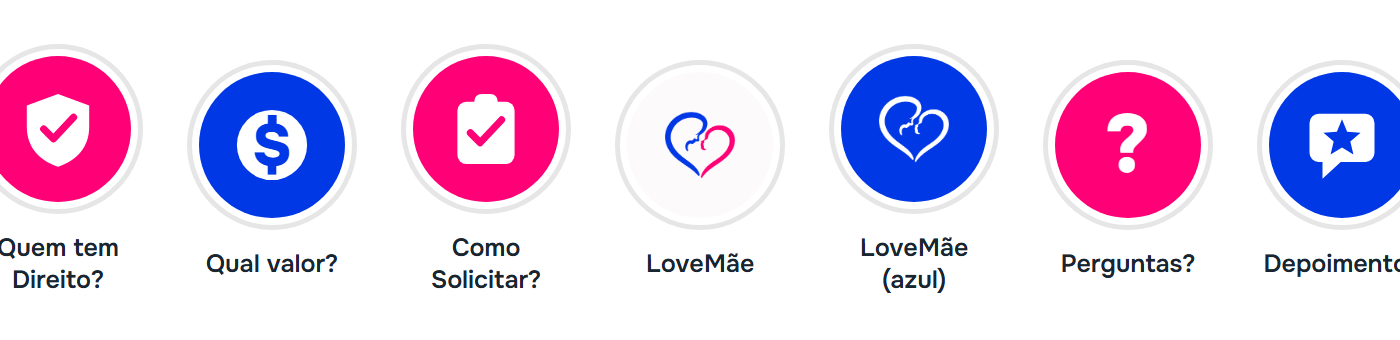
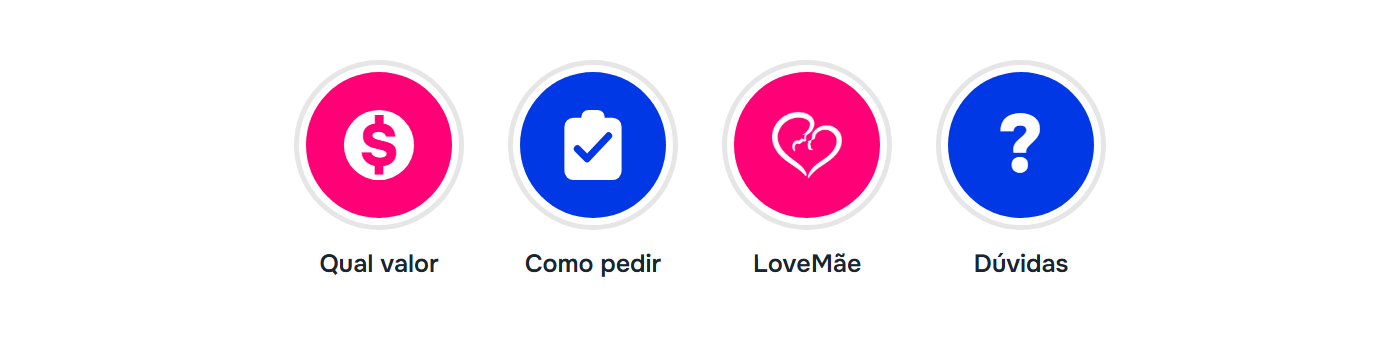
destaques: 4 capas alternando a partir do rosa, institucional com o símbolo da marca

diff --git a/marketing/instagram/vitrine/textos.md b/marketing/instagram/vitrine/textos.md
@@ -26,25 +26,25 @@ LoveMãe | Auxílio Maternidade
 
 **Botões de contato:** WhatsApp (11) 97723-8306 · e-mail contato@lovemaeauxiliomaternidade.com.br
 
-**Destaques** (revistos em 18/09/2026 — 6 capas alternando as duas cores do logo,
-ícone sólido ocupando quase todo o círculo; capas em `destaques/`, prévia em
-`previa-destaques.png`):
+**Destaques** (revistos em 29/09/2026 — 4 capas alternando as cores do logo a partir
+do rosa; capas em `destaques/`, prévia em `previa-destaques.png`):
 
 | # | Nome no Instagram | Cor | Ícone | Arquivo |
 |---|---|---|---|---|
-| 1 | Quem tem Direito? | `#FF0076` | escudo com check | `1-quem-tem-direito.png` |
-| 2 | Qual valor? | `#0038E5` | moeda com cifrão | `2-qual-valor.png` |
-| 3 | Como Solicitar? | `#FF0076` | prancheta com check | `3-como-solicitar.png` |
-| 4 | Com a LoveMãe | `#0038E5` | coração | `4-com-a-lovemae.png` |
-| 5 | Perguntas? | `#FF0076` | interrogação | `5-perguntas.png` |
-| 6 | Depoimentos | `#0038E5` | balão com estrela | `6-depoimentos.png` |
+| 1 | Qual valor | `#FF0076` | moeda com cifrão | `1-qual-valor.png` |
+| 2 | Como pedir | `#0038E5` | prancheta com check | `2-como-pedir.png` |
+| 3 | LoveMãe | `#FF0076` | símbolo da marca | `3-lovemae.png` |
+| 4 | Dúvidas | `#0038E5` | interrogação | `4-duvidas.png` |
 
-Ordem definida em 20/09/2026: o que a mãe quer saber (direito → valor → como pedir) vem
-antes do institucional.
+⚠ **Nomes curtos de propósito.** O Instagram corta por volta de 12 caracteres embaixo do
+círculo — "Quem tem Direito?" virou "Tenho direit…" no teste de 29/09/2026.
 
-Descartado em 18/09/2026: seis tons diferentes (linha poluída) e ícone de traço fino
-(sumia na miniatura). Os pastéis da marca (`#FAA9C7`, `#80BBEF`) também estão fora —
-com ícone branco dão 1,8:1 e 2,0:1, abaixo do mínimo de 3:1 para símbolo.
+⚠ **Criar na ordem inversa.** O Instagram coloca o destaque mais recente à esquerda, então
+a ordem de criação é Dúvidas → LoveMãe → Como pedir → Qual valor.
+
+Descartados pelo caminho: seis tons diferentes (linha poluída), ícone de traço fino (sumia
+na miniatura), fundo claro no institucional (some contra o fundo do perfil) e os pastéis da
+marca (`#FAA9C7`, `#80BBEF`) — com ícone branco dão 1,8:1 e 2,0:1, abaixo do mínimo de 3:1.
 
 ⚠ **Depoimentos** só entra quando houver depoimento com autorização por escrito.
 Destaque vazio, ou com print de conversa sem permissão, é pior que destaque nenhum.
